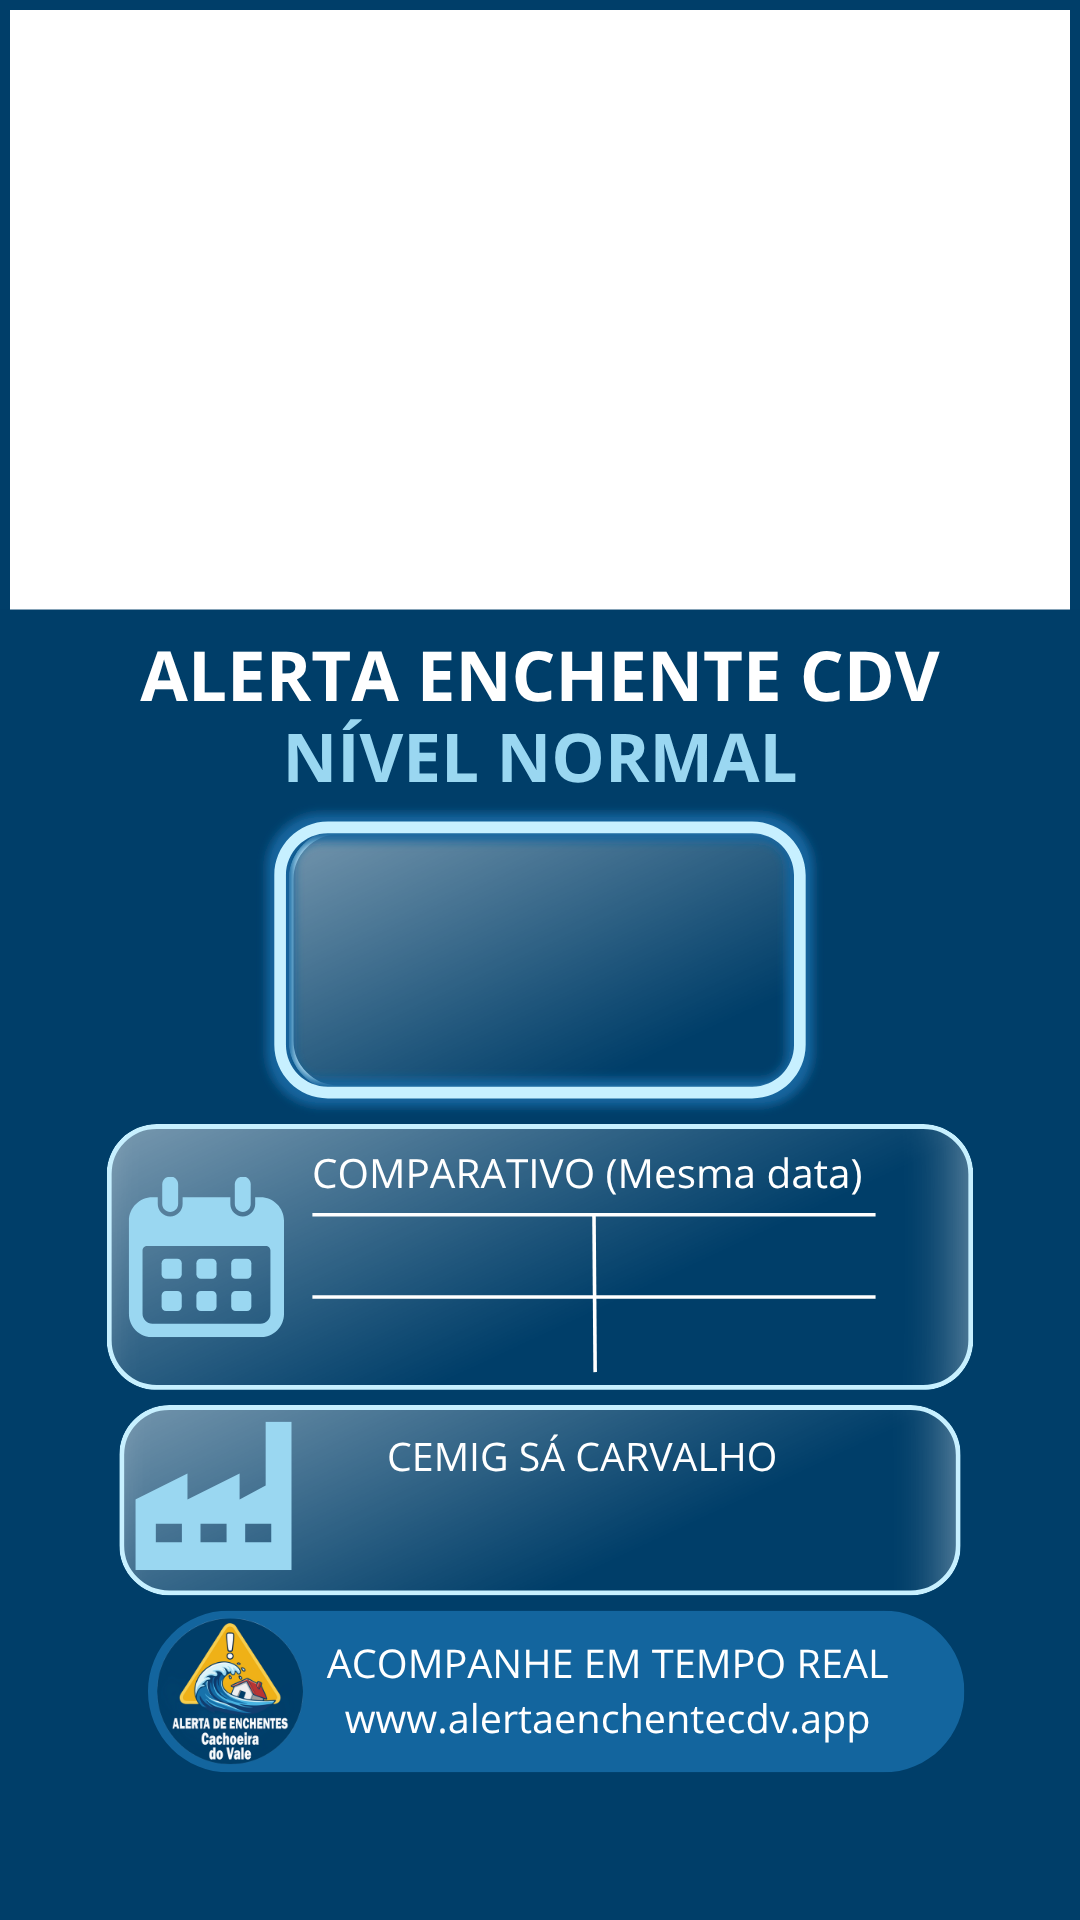
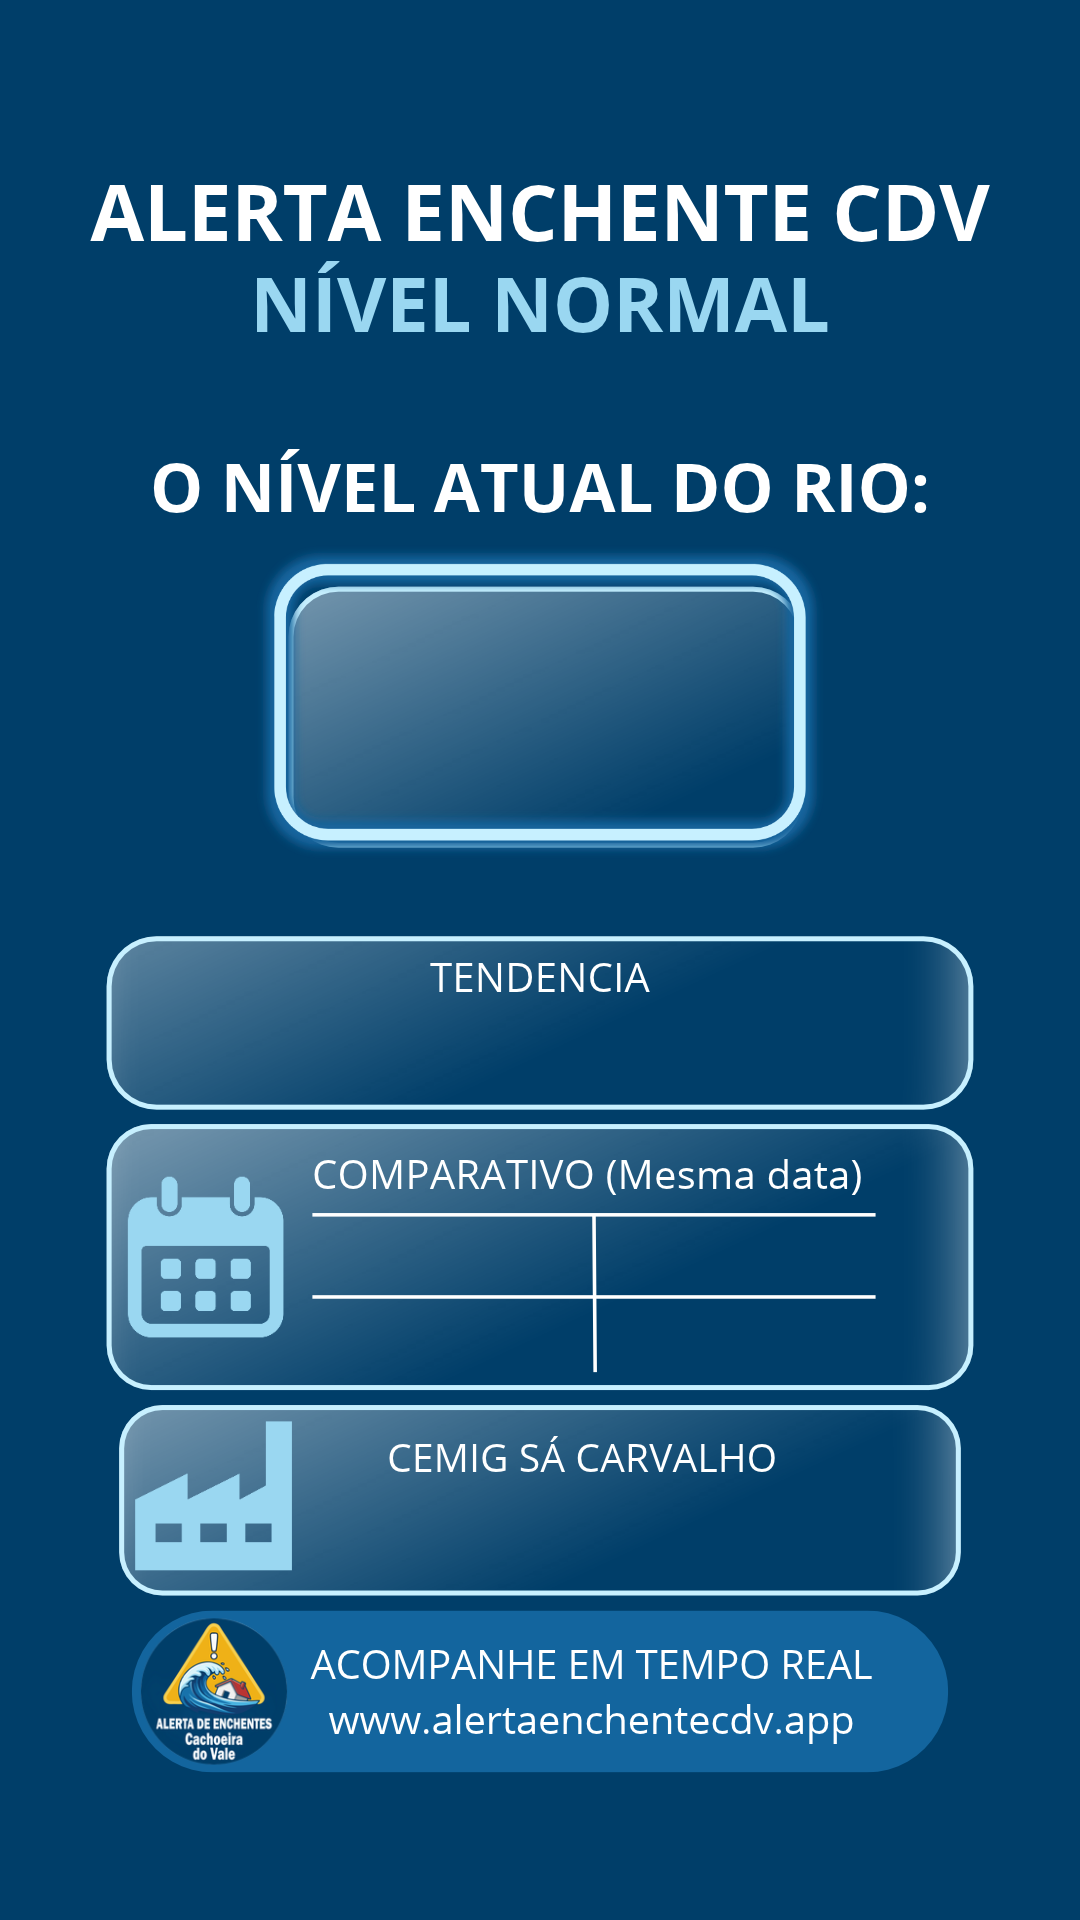
alteração templates + tendencia

diff --git a/gerar_story.py b/gerar_story.py
@@ -4,7 +4,7 @@ import re
 import sys
 import subprocess
 import requests
-from datetime import datetime, timezone
+from datetime import datetime, timezone, timedelta
 from zoneinfo import ZoneInfo
 from PIL import Image, ImageDraw, ImageFont
 from core.config import configurar_logger
@@ -15,14 +15,30 @@ log = configurar_logger("story", formato_data="%H:%M:%S")
 FONTE_BOLD = "assets/OpenSans-Bold.ttf"
 FONTE_REGULAR = "assets/OpenSans-Regular.ttf"
 
-# Coordenadas (validadas)
-POS_NIVEL = (540, 950)       
-POS_HOJE = (450, 1255)       
-POS_ANO1 = (750, 1255)       
-POS_ANO2 = (450, 1340)       
-POS_ANO3 = (750, 1340)       
-POS_DEFLUENCIA = (580, 1520) 
-POS_DATA_HORA = (580, 1800)
+# =========================================================
+# COORDENADAS PARA O TEMPLATE DE IMAGEM (ESTÁTICO)
+# =========================================================
+POS_IMG_NIVEL = (540, 700)
+POS_IMG_TENDENCIA = (540, 1040)
+POS_IMG_HOJE = (450, 1255)       
+POS_IMG_ANO1 = (750, 1255)       
+POS_IMG_ANO2 = (450, 1340)       
+POS_IMG_ANO3 = (750, 1340)       
+POS_IMG_DEFLUENCIA = (580, 1520) 
+POS_IMG_DATA_HORA = (580, 1800)
+
+# =========================================================
+# COORDENADAS PARA O TEMPLATE DE VÍDEO (TRANSPARENTE NO TOPO)
+# =========================================================
+POS_VID_NIVEL = (540, 950)
+POS_VID_TENDENCIA = (540, 1080) # Ajuste aqui quando colocar o campo no Canva
+POS_VID_HOJE = (450, 1255)       
+POS_VID_ANO1 = (750, 1255)       
+POS_VID_ANO2 = (450, 1340)       
+POS_VID_ANO3 = (750, 1340)       
+POS_VID_DEFLUENCIA = (580, 1520) 
+POS_VID_DATA_HORA = (580, 1800)
+
 
 def obter_dados(supabase):
     try:
@@ -35,50 +51,106 @@ def obter_dados(supabase):
         comp = r_comp.data[0]["dados"]
         anos = {a["ano"]: a["nivel_cm"] for a in comp.get("anos_anteriores", [])}
         
-        return nivel, defluencia, anos
+        limite_12h = (datetime.now(timezone.utc) - timedelta(hours=12)).isoformat()
+        r_12h = supabase.table("historico_ana") \
+            .select("nivel_cm") \
+            .eq("codigo_ana", "56696000") \
+            .lte("data_hora", limite_12h) \
+            .order("data_hora", desc=True) \
+            .limit(1) \
+            .execute()
+        
+        tendencia = None
+        if r_12h.data:
+            nivel_12h = float(r_12h.data[0]["nivel_cm"])
+            tendencia = round(nivel - nivel_12h, 1)
+            
+        return nivel, defluencia, anos, tendencia
     except Exception as e:
         log.error(f"Erro ao buscar dados no Supabase: {e}")
-        return None, None, None
+        return None, None, None, None
 
 def obter_anos_comparacao():
     if datetime.now().year == 2026:
         return [2023, 2021, 2018]
     return [2024, 2022, 2019]
 
-def gerar_overlay(nivel, defluencia, anos):
-    """Gera a imagem PNG transparente com os textos."""
-    if nivel < 450: template_path = "template_video_normal.png"
-    elif nivel < 540: template_path = "template_video_atencao.png"
-    elif nivel < 620: template_path = "template_video_alerta.png"
-    else: template_path = "template_video_inundacao.png"
+def gerar_overlay(nivel, defluencia, anos, tendencia, modo="video"):
+    # Define o template e as coordenadas com base no modo
+    if modo == "imagem":
+        prefixo = "template_"
+        pos_nivel = POS_IMG_NIVEL
+        pos_tendencia = POS_IMG_TENDENCIA
+        pos_hoje = POS_IMG_HOJE
+        pos_ano1 = POS_IMG_ANO1
+        pos_ano2 = POS_IMG_ANO2
+        pos_ano3 = POS_IMG_ANO3
+        pos_defluencia = POS_IMG_DEFLUENCIA
+        pos_data = POS_IMG_DATA_HORA
+    else:
+        prefixo = "template_video_"
+        pos_nivel = POS_VID_NIVEL
+        pos_tendencia = POS_VID_TENDENCIA
+        pos_hoje = POS_VID_HOJE
+        pos_ano1 = POS_VID_ANO1
+        pos_ano2 = POS_VID_ANO2
+        pos_ano3 = POS_VID_ANO3
+        pos_defluencia = POS_VID_DEFLUENCIA
+        pos_data = POS_VID_DATA_HORA
+
+    if nivel < 450: template_path = f"{prefixo}normal.png"
+    elif nivel < 540: template_path = f"{prefixo}atencao.png"
+    elif nivel < 620: template_path = f"{prefixo}alerta.png"
+    else: template_path = f"{prefixo}inundacao.png"
+
+    if not os.path.exists(template_path):
+        log.error(f"Arquivo {template_path} não encontrado!")
+        return None
 
     img = Image.open(template_path).convert("RGBA")
     draw = ImageDraw.Draw(img)
     
     font_nivel = ImageFont.truetype(FONTE_BOLD, 120)
+    font_tendencia = ImageFont.truetype(FONTE_BOLD, 35)
     font_anos = ImageFont.truetype(FONTE_BOLD, 35)
     font_cemig = ImageFont.truetype(FONTE_BOLD, 40)
     font_data = ImageFont.truetype(FONTE_REGULAR, 30)
 
-    draw.text(POS_NIVEL, f"{nivel:.0f} cm", font=font_nivel, fill="white", anchor="mm")
-    draw.text(POS_HOJE, f"HOJE: {nivel:.0f}cm", font=font_anos, fill="white", anchor="mm")
+    # 1. Nível grande
+    draw.text(pos_nivel, f"{nivel:.0f} cm", font=font_nivel, fill="white", anchor="mm")
     
+    # 2. Tendência de 12h
+    if tendencia is not None:
+        if tendencia > 2:
+            texto_tend = f"Subiu {tendencia:.0f} cm nas ultimas 12h"
+            cor_tend = "#F96363"
+        elif tendencia < -2:
+            texto_tend = f"Desceu {abs(tendencia):.0f} cm nas ultimas 12h"
+            cor_tend = "#6DFF99"
+        else:
+            texto_tend = "Estavel nas ultimas 12h"
+            cor_tend = "#ffffff"
+            
+        draw.text(pos_tendencia, texto_tend, font=font_tendencia, fill=cor_tend, anchor="mm")
+
+    # 3. Comparativo
+    draw.text(pos_hoje, f"HOJE: {nivel:.0f}cm", font=font_anos, fill="white", anchor="mm")
     anos_alvo = obter_anos_comparacao()
-    for i, pos in enumerate([POS_ANO1, POS_ANO2, POS_ANO3]):
+    for i, pos in enumerate([pos_ano1, pos_ano2, pos_ano3]):
         ano = anos_alvo[i]
         valor = anos.get(ano, 0)
         draw.text(pos, f"{ano}: {valor:.0f}cm", font=font_anos, fill="white", anchor="mm")
 
-    texto_def = f"Defluência: {defluencia:.0f} m³/s" if defluencia > 0 else "Defluência: --"
-    draw.text(POS_DEFLUENCIA, texto_def, font=font_cemig, fill="white", anchor="mm")
+    # 4. Defluência e Data
+    texto_def = f"Defluencia: {defluencia:.0f} m3/s" if defluencia > 0 else "Defluencia: --"
+    draw.text(pos_defluencia, texto_def, font=font_cemig, fill="white", anchor="mm")
 
     agora = datetime.now(ZoneInfo("America/Sao_Paulo"))
-    draw.text(POS_DATA_HORA, agora.strftime("%d/%m/%Y às %H:%M"), font=font_data, fill="#cbd5e1", anchor="mm")
+    draw.text(pos_data, agora.strftime("%d/%m/%Y as %H:%M"), font=font_data, fill="#cbd5e1", anchor="mm")
 
     return img
 
 def baixar_ultimo_video():
-    """Baixa o penúltimo vídeo da pasta de clipes do VPS para garantir que está completo."""
     url_listagem = "https://video.alertaenchentecdv.app/clipes/"
     try:
         r = requests.get(url_listagem, timeout=10)
@@ -86,22 +158,22 @@ def baixar_ultimo_video():
         arquivos = re.findall(r'href="([^"]+\.mp4)"', r.text)
         if len(arquivos) < 2: return False
         arquivo_alvo = sorted(arquivos)[-2]
-        
         r_video = requests.get(url_listagem + arquivo_alvo, stream=True)
         with open("video_temp.mp4", "wb") as f:
             for chunk in r_video.iter_content(chunk_size=8192):
                 f.write(chunk)
         return True
     except Exception as e:
-        log.error(f"Erro ao baixar vídeo: {e}")
+        log.error(f"Erro ao baixar video: {e}")
         return False
 
 def publicar(modo="video"):
     supabase = obter_supabase()
-    nivel, defluencia, anos = obter_dados(supabase)
+    nivel, defluencia, anos, tendencia = obter_dados(supabase)
     if nivel is None: return
 
-    img_overlay = gerar_overlay(nivel, defluencia, anos)
+    # Passa o 'modo' para a função gerar_overlay
+    img_overlay = gerar_overlay(nivel, defluencia, anos, tendencia, modo)
 
     if modo == "imagem":
         log.info("Gerando Story em formato de IMAGEM...")
@@ -115,14 +187,14 @@ def publicar(modo="video"):
             file_options={"content-type": "image/jpeg", "upsert": "true"}
         )
         url_final = supabase.storage.from_("stories").get_public_url(nome_arquivo)
-        msg_telegram = "✅ Story (Imagem) gerado e pronto para postar!"
+        msg_telegram = "Story (Imagem) gerado e pronto para postar!"
         
     else:
-        log.info("Gerando Story em formato de VÍDEO...")
+        log.info("Gerando Story em formato de VIDEO...")
         img_overlay.save("overlay_temp.png")
         
         if not baixar_ultimo_video():
-            log.error("Falha ao baixar vídeo do VPS. Abortando.")
+            log.error("Falha ao baixar video do VPS. Abortando.")
             return
 
         comando = [
@@ -139,18 +211,16 @@ def publicar(modo="video"):
                 file_options={"content-type": "video/mp4", "upsert": "true"}
             )
         url_final = supabase.storage.from_("stories").get_public_url(nome_arquivo)
-        msg_telegram = "✅ Story (Vídeo) gerado e pronto para postar!"
+        msg_telegram = "Story (Video) gerado e pronto para postar!"
 
-    # Salva no banco
     supabase.table("cache_site").upsert({
         "chave": "story_atual",
         "dados": {"url": url_final, "gerado_em": datetime.now(timezone.utc).isoformat(), "tipo": modo},
         "atualizado_em": datetime.now(timezone.utc).isoformat()
     }, on_conflict="chave").execute()
 
-    log.info(f"✅ Concluído! URL: {url_final}")
+    log.info(f"Concluido! URL: {url_final}")
 
-    # Avisa o Telegram
     TOKEN = os.getenv("TELEGRAM_TOKEN")
     CHAT_ID = os.getenv("TELEGRAM_CHAT_ID")
     if TOKEN and CHAT_ID:
@@ -158,7 +228,33 @@ def publicar(modo="video"):
             "chat_id": CHAT_ID, "text": msg_telegram
         })
 
+def executar_teste():
+    log.info("=== MODO DE TESTE ATIVADO ===")
+    anos_ficticios = {2023: 450, 2021: 380, 2018: 520}
+    
+    # 1. Teste do template de Imagem
+    img_estatica = gerar_overlay(nivel=300, defluencia=85, anos=anos_ficticios, tendencia=15, modo="imagem")
+    if img_estatica:
+        img_estatica.convert("RGB").save("teste_layout_imagem.jpg", quality=95)
+        log.info("Gerado: teste_layout_imagem.jpg")
+        
+    # 2. Teste do template de Vídeo
+    img_video = gerar_overlay(nivel=300, defluencia=85, anos=anos_ficticios, tendencia=15, modo="video")
+    if img_video:
+        # Como o template de vídeo tem o topo transparente, colocamos um fundo preto
+        # para simular como ficará quando o FFmpeg colocar o vídeo do rio atrás.
+        fundo_preto = Image.new("RGBA", img_video.size, (0, 0, 0, 255))
+        fundo_preto.paste(img_video, (0, 0), img_video)
+        fundo_preto.convert("RGB").save("teste_layout_video.jpg", quality=95)
+        log.info("Gerado: teste_layout_video.jpg")
+
+    print("\nAbra os arquivos 'teste_layout_imagem.jpg' e 'teste_layout_video.jpg' para verificar os alinhamentos!")
+
 if __name__ == "__main__":
-    # Verifica se passou o argumento. Se não, assume 'video'
-    modo_escolhido = sys.argv[1] if len(sys.argv) > 1 else "video"
-    publicar(modo_escolhido)
+    MODO_TESTE = True 
+    
+    if MODO_TESTE:
+        executar_teste()
+    else:
+        modo_escolhido = sys.argv[1] if len(sys.argv) > 1 else "video"
+        publicar(modo_escolhido)
